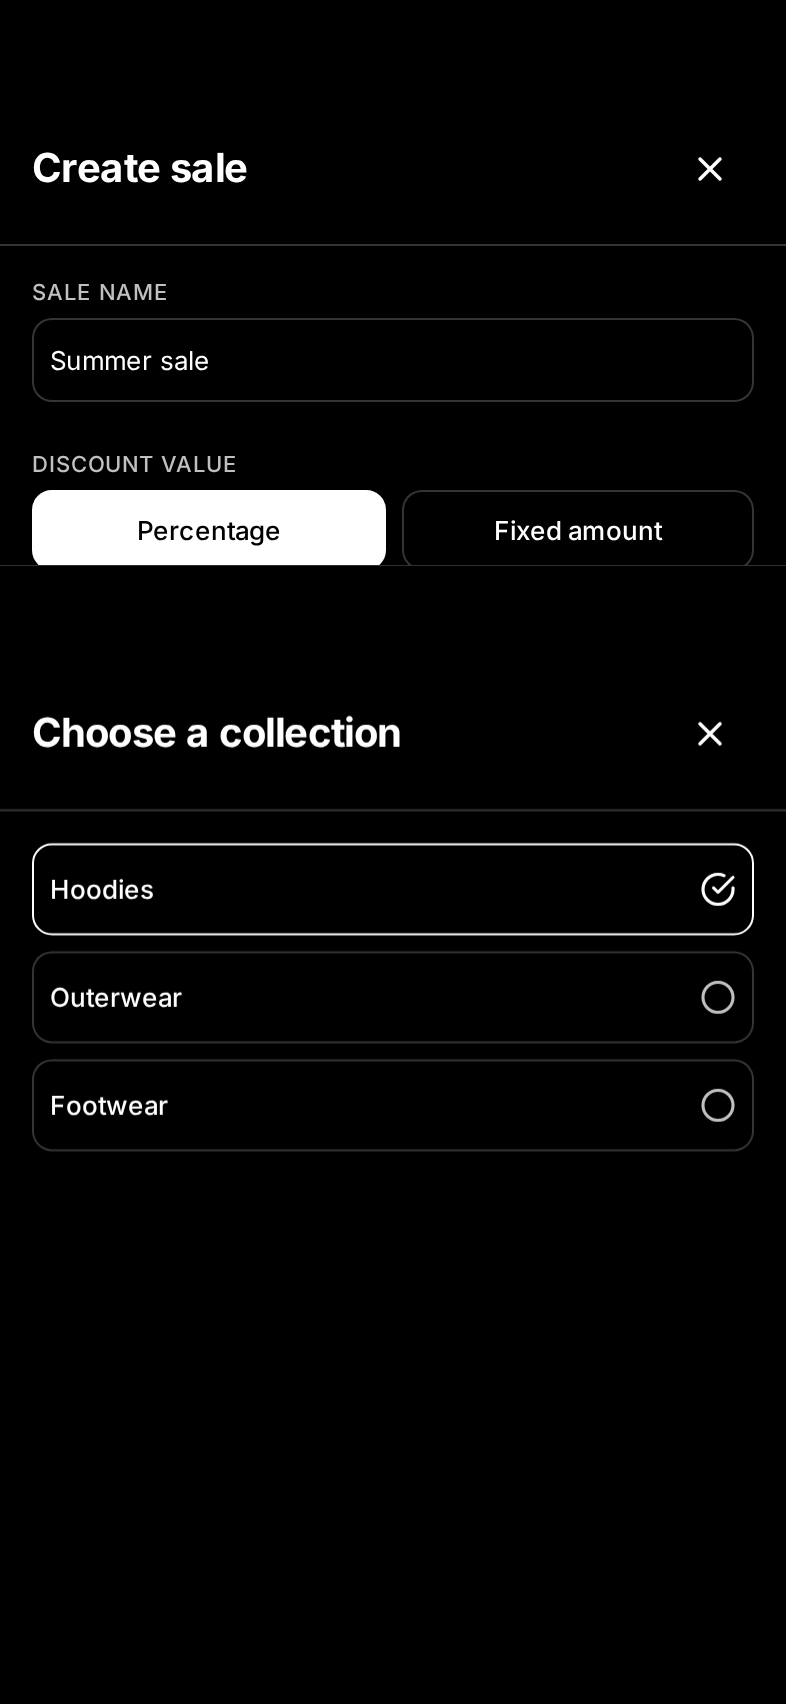
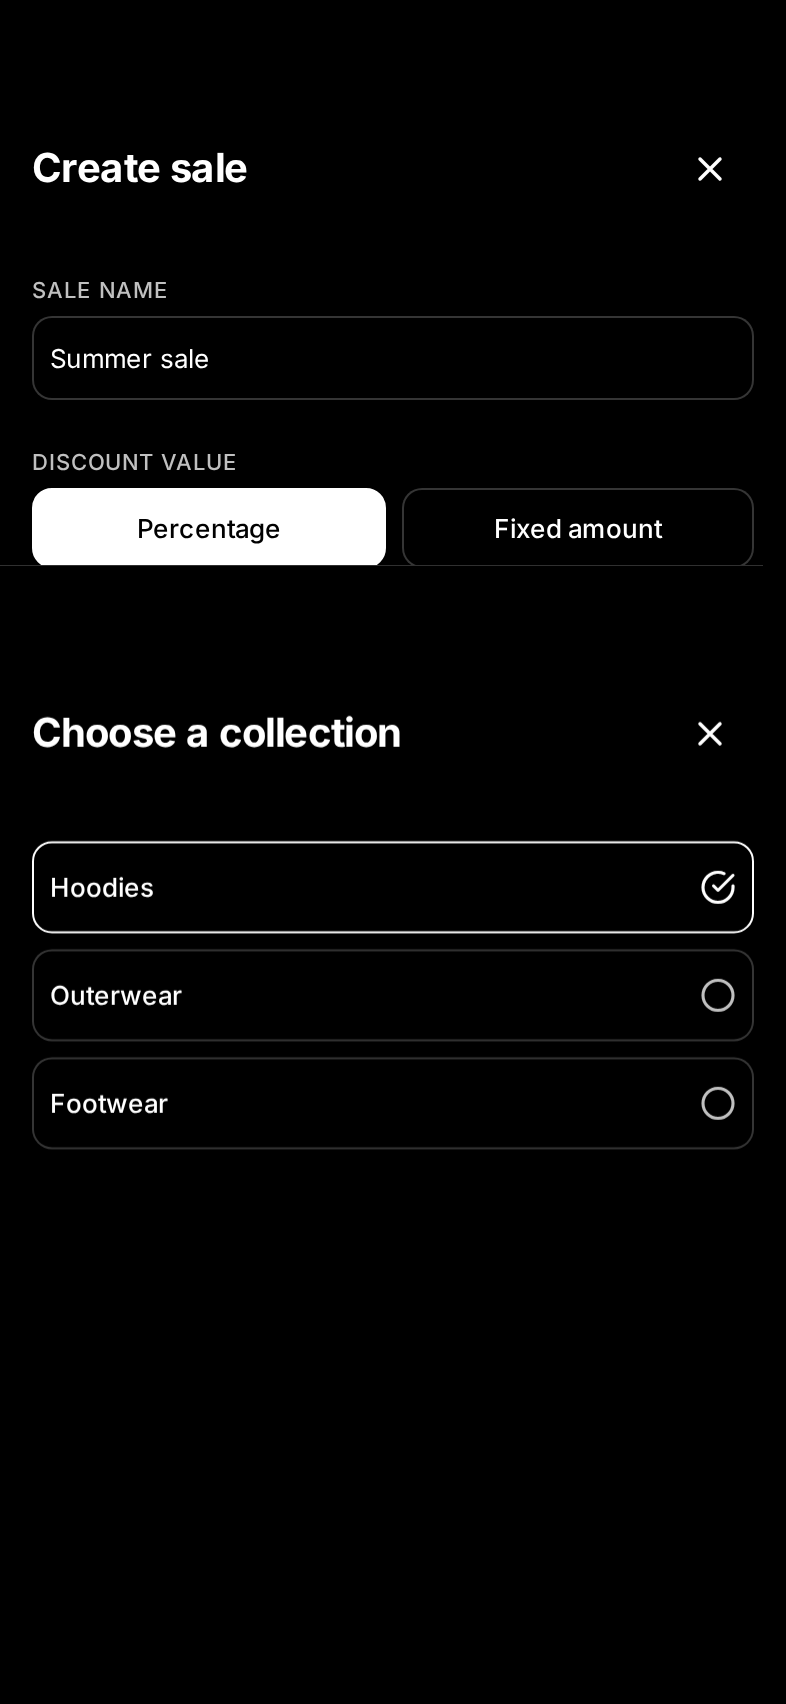
Sales screens: hideDivider header (same prop as #583), re-captured screenshots
Claude-Session: https://claude.ai/code/session_013KyR9SMZe4zRtDta4vsdKK

diff --git a/artifacts/mobile/app/sales.tsx b/artifacts/mobile/app/sales.tsx
@@ -229,7 +229,7 @@ export default function SalesScreen() {
 
   return (
     <View style={s.root}>
-      <ScreenHeader title="Sales" actions={[{ icon: 'plus', onPress: openNew, accessibilityLabel: 'New sale' }]} />
+      <ScreenHeader hideDivider title="Sales" actions={[{ icon: 'plus', onPress: openNew, accessibilityLabel: 'New sale' }]} />
 
       {loading ? (
         <View style={s.center}><ActivityIndicator color={theme.accent} /></View>
@@ -280,7 +280,7 @@ export default function SalesScreen() {
 
       <Modal visible={showModal} animationType="slide" presentationStyle="pageSheet" onRequestClose={() => setShowModal(false)}>
         <SafeAreaProvider style={s.modal}>
-          <ScreenHeader title={editingId ? 'Edit sale' : 'Create sale'} variant="modal" onBack={() => setShowModal(false)} />
+          <ScreenHeader hideDivider title={editingId ? 'Edit sale' : 'Create sale'} variant="modal" onBack={() => setShowModal(false)} />
           <ScrollView showsVerticalScrollIndicator={false} keyboardShouldPersistTaps="handled" contentContainerStyle={{ padding: SP.md, gap: SP.lg, paddingBottom: 60 }}>
             <View>
               <Text style={s.label}>Sale name</Text>
@@ -349,7 +349,7 @@ export default function SalesScreen() {
 
       <Modal visible={showProductPicker} animationType="slide" presentationStyle="pageSheet" onRequestClose={() => setShowProductPicker(false)}>
         <SafeAreaProvider style={s.modal}>
-          <ScreenHeader title="Choose products" variant="modal" onBack={() => setShowProductPicker(false)} actions={[{ icon: 'check', onPress: () => setShowProductPicker(false), accessibilityLabel: 'Done choosing products' }]} />
+          <ScreenHeader hideDivider title="Choose products" variant="modal" onBack={() => setShowProductPicker(false)} actions={[{ icon: 'check', onPress: () => setShowProductPicker(false), accessibilityLabel: 'Done choosing products' }]} />
           <ScrollView contentContainerStyle={{ padding: SP.md, gap: 8 }}>
             {products.length === 0 ? (
               <Text style={{ color: MUTED, fontSize: FS.sm, textAlign: 'center', marginTop: 30 }}>No products found.</Text>
@@ -368,7 +368,7 @@ export default function SalesScreen() {
 
       <Modal visible={showCollectionPicker} animationType="slide" presentationStyle="pageSheet" onRequestClose={() => setShowCollectionPicker(false)}>
         <SafeAreaProvider style={s.modal}>
-          <ScreenHeader title="Choose a collection" variant="modal" onBack={() => setShowCollectionPicker(false)} />
+          <ScreenHeader hideDivider title="Choose a collection" variant="modal" onBack={() => setShowCollectionPicker(false)} />
           <ScrollView contentContainerStyle={{ padding: SP.md, gap: 8 }}>
             {collections.length === 0 ? (
               <Text style={{ color: MUTED, fontSize: FS.sm, textAlign: 'center', marginTop: 30 }}>No categories or tags on your products yet.</Text>

diff --git a/artifacts/mobile/components/ScreenHeader.tsx b/artifacts/mobile/components/ScreenHeader.tsx
@@ -44,6 +44,8 @@ interface ScreenHeaderProps {
    * itself, only which icon a screen that already has one shows.
    */
   variant?: 'push' | 'modal';
+  /** Opt out of the hairline under the header. Default keeps every existing screen unchanged. */
+  hideDivider?: boolean;
 }
 
 /** Design-system rule: at most 2 action icons on the right, primary rightmost. */
@@ -61,7 +63,7 @@ const MAX_HEADER_ACTIONS = 2;
 const TITLE_SIZE = 20;
 
 export function ScreenHeader({
-  title, subtitle, rightElement, actions, scrollY, collapseDistance = 48, onBack, backTestID, backAccessibilityLabel, variant = 'push',
+  title, subtitle, rightElement, actions, scrollY, collapseDistance = 48, onBack, backTestID, backAccessibilityLabel, variant = 'push', hideDivider = false,
 }: ScreenHeaderProps) {
   const colors = useColors();
   const cappedActions = actions?.slice(-MAX_HEADER_ACTIONS);
@@ -84,7 +86,7 @@ export function ScreenHeader({
   const closeOrBack = () => (onBack ? onBack() : goBackOr(router));
 
   return (
-    <View testID="screen-header" style={[styles.wrap, { paddingTop: topPad, borderBottomColor: colors.border }]}>
+    <View testID="screen-header" style={[styles.wrap, { paddingTop: topPad, borderBottomColor: colors.border }, hideDivider && { borderBottomWidth: 0 }]}>
       <View style={styles.container}>
         {variant === 'push' && (
           <PressableScale
